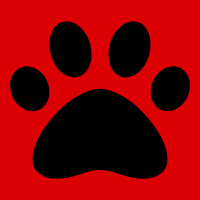
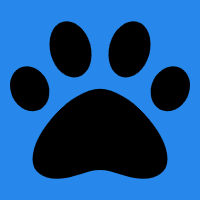
changed flex to grid changed paw square colour

diff --git a/styles.css b/styles.css
@@ -1,23 +1,28 @@
 body {
   background-color: #bebebe;
-  position: relative;
 }
 
 .container {
-  width: 90%;
+  width: 95%;
   max-width: 812px;
-  margin: 5em auto;
+  margin: 0 auto;
+  position: relative;
+  text-align: center;
 }
 
 .grid {
-  display: -webkit-box;
-  display: -ms-flexbox;
-  display: flex;
-  -ms-flex-wrap: wrap;
-      flex-wrap: wrap;
-  -ms-flex-line-pack: start;
-      align-content: flex-start;
+  display: -ms-grid;
+  display: grid;
+  -ms-grid-columns: 1fr 1fr;
+      grid-template-columns: 1fr 1fr;
   gap: 0.25em;
+}
+
+@media (min-width: 600px) {
+  .grid {
+    -ms-grid-columns: (1fr)[4];
+        grid-template-columns: repeat(4, 1fr);
+  }
 }
 
 img {
@@ -45,7 +50,7 @@ button {
   display: none;
   font-size: 1.25rem;
   position: absolute;
-  top: 15%;
+  top: 20%;
   left: 50%;
   -webkit-transform: translateX(-50%);
           transform: translateX(-50%);

diff --git a/styles.scss b/styles.scss
@@ -3,17 +3,21 @@ body {
 }
 
 .container {
-  width: 90%;
+  width: 95%;
   max-width: 812px;
-  margin: 5em auto;
+  margin: 0 auto;
   position: relative;
+  text-align: center;
 }
 
 .grid {
-  display: flex;
-  flex-wrap: wrap;
-  align-content: flex-start;
+  display: grid;
+  grid-template-columns: 1fr 1fr;
   gap: 0.25em;
+
+  @media (min-width: 600px) {
+    grid-template-columns: repeat(4, 1fr);
+  }
 }
 
 img {
@@ -39,7 +43,7 @@ button {
   display: none;
   font-size: 1.25rem;
   position: absolute;
-  top: 15%;
+  top: 20%;
   left: 50%;
   transform: translateX(-50%);
 }
